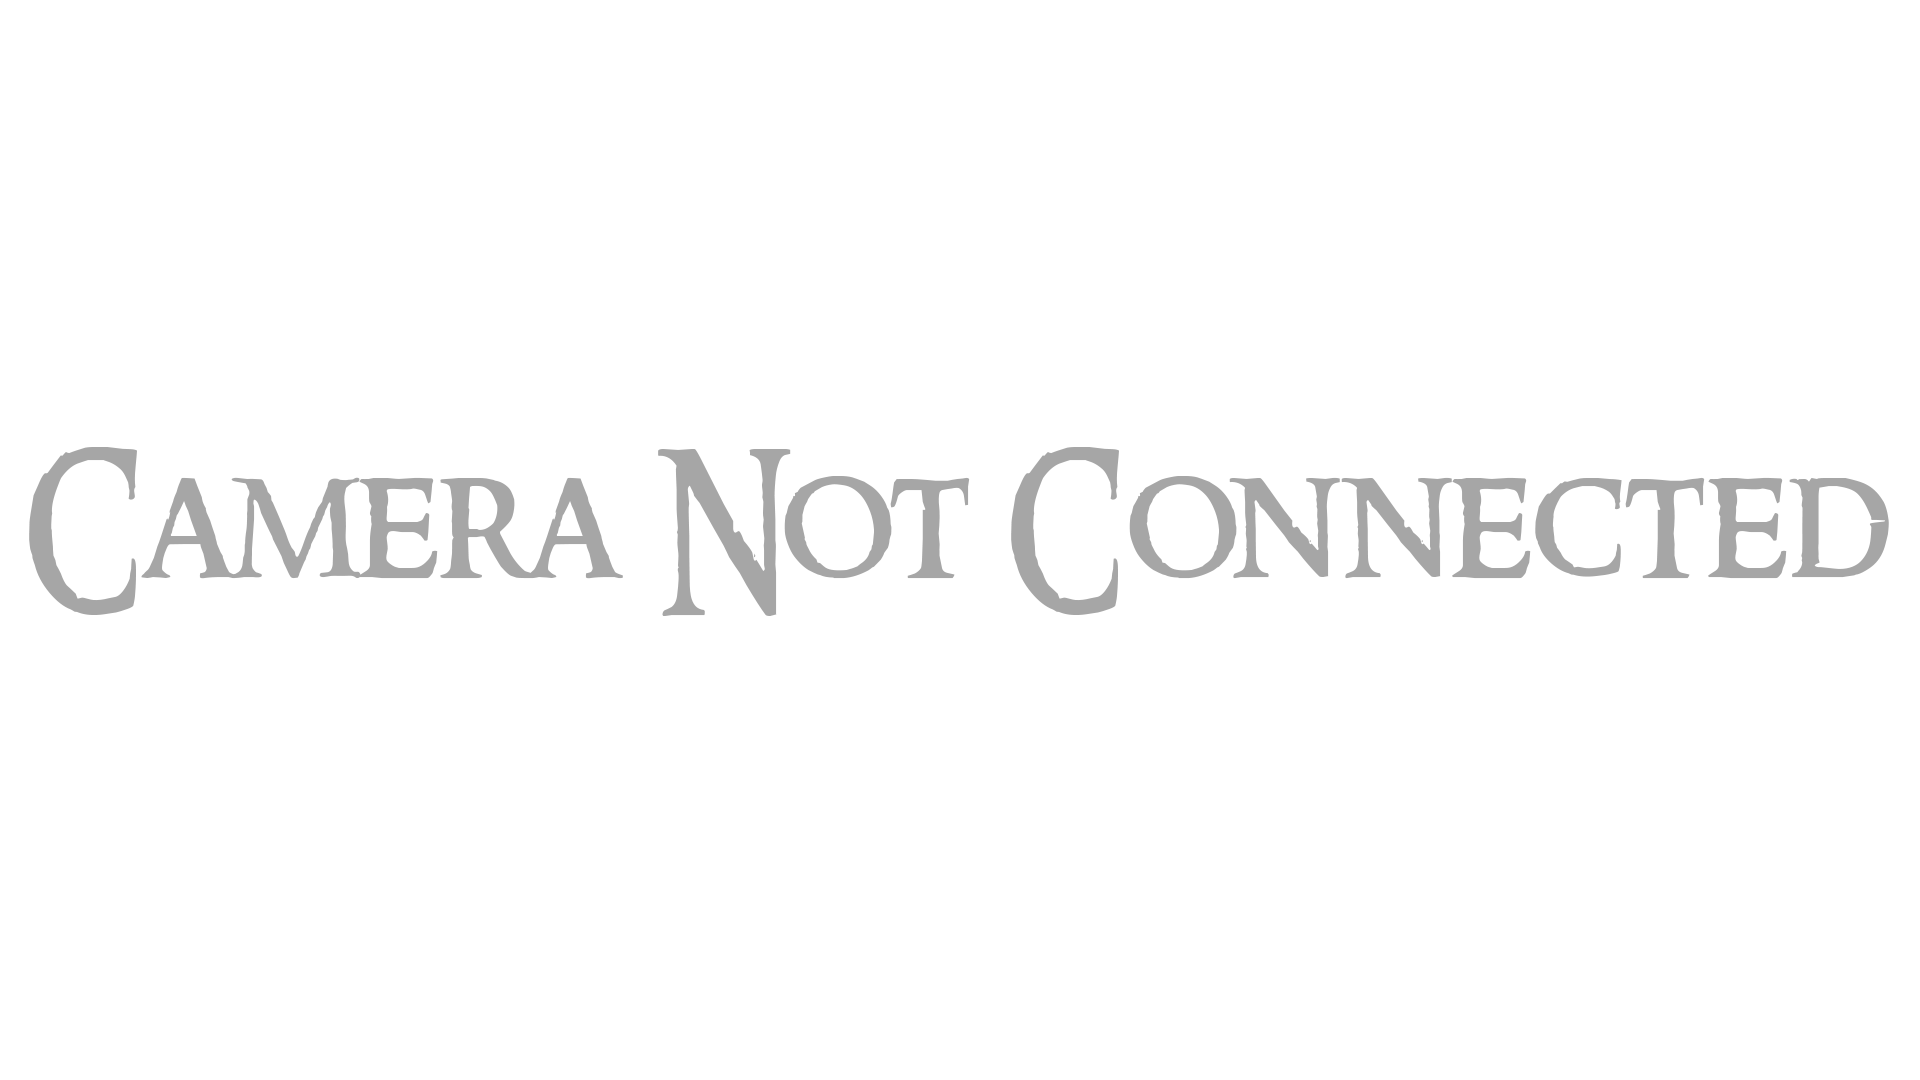
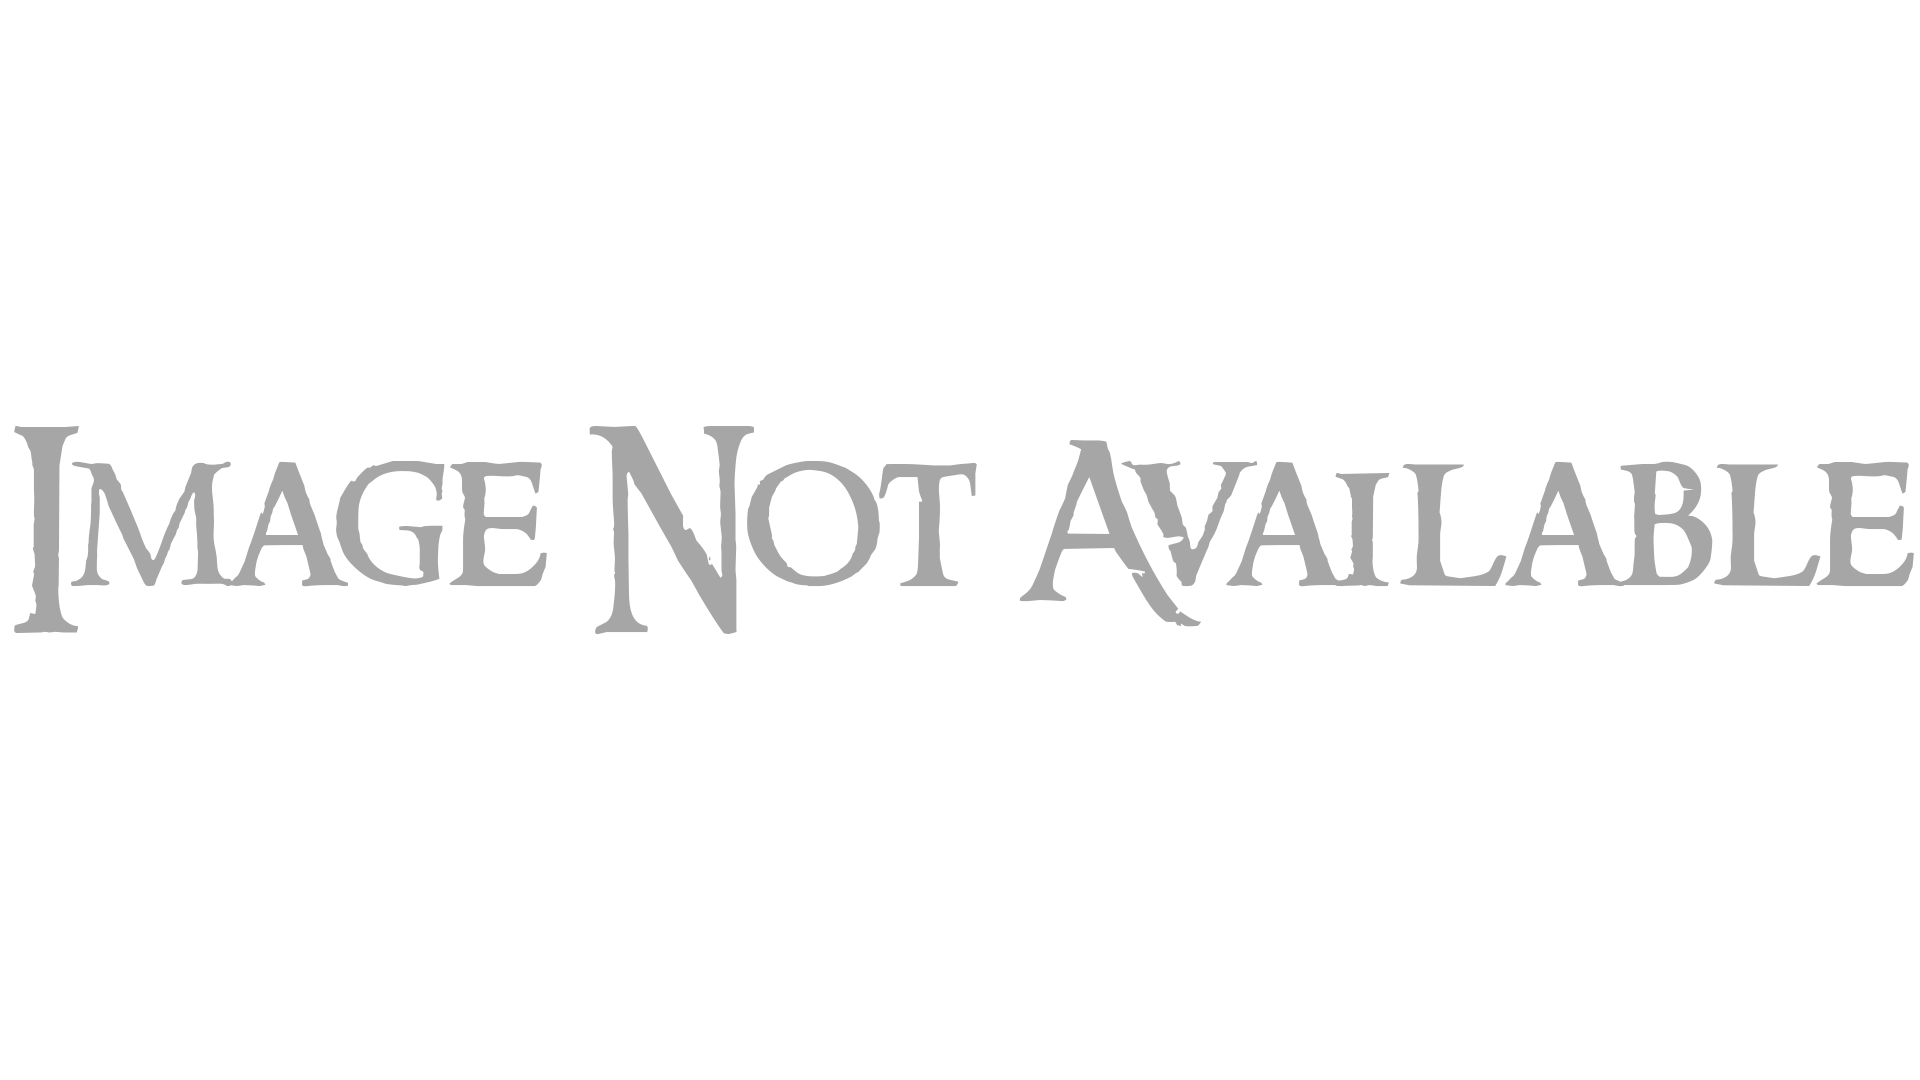
Showing both cameras (left and right)

Changed region(s): [[0.0, 0.3972, 1.0, 0.6111]]

diff --git a/src/gui/main_window.py b/src/gui/main_window.py
@@ -36,28 +36,50 @@ class MainWindow(QtWidgets.QMainWindow):
         self.verticalLayout = QtWidgets.QVBoxLayout(self.centralwidget)
         self.verticalLayout.setObjectName(u"verticalLayout")
 
-        self.frame = QtWidgets.QFrame(self.centralwidget)
-        self.frame.setObjectName(u"frame")
-        self.frame.setFrameShape(QtWidgets.QFrame.StyledPanel)
-        self.frame.setFrameShadow(QtWidgets.QFrame.Raised)
-        self.horizontalLayout_2 = QtWidgets.QHBoxLayout(self.frame)
-        self.horizontalLayout_2.setObjectName(u"horizontalLayout_2")
+        #LEFT CAM
+        self.frame_left = QtWidgets.QFrame(self.centralwidget)
+        self.frame_left.setObjectName(u"frame_left")
+        self.frame_left.setFrameShape(QtWidgets.QFrame.StyledPanel)
+        self.frame_left.setFrameShadow(QtWidgets.QFrame.Raised)
+        self.horizontalLayout_left = QtWidgets.QHBoxLayout(self.frame_left)
+        self.horizontalLayout_left.setObjectName(u"horizontalLayout_left")
 
-        self.basic_preview_label = QtWidgets.QLabel(self.frame)
-        self.basic_preview_label.setObjectName(u"basic_preview_label")
+        self.basic_preview_label_left = QtWidgets.QLabel(self.frame_left)
+        self.basic_preview_label_left.setObjectName(u"basic_preview_label_left")
 
-        self.horizontalLayout_2.addWidget(self.basic_preview_label)
+        self.horizontalLayout_left.addWidget(self.basic_preview_label_left)
 
-        self.viewer_3D = GLViewWidget()
-        self.horizontalLayout_2.addWidget(self.viewer_3D)
+        self.viewer_3D_left = GLViewWidget()
+        self.horizontalLayout_left.addWidget(self.viewer_3D_left)
 
-        self.augumented_preview_label = QtWidgets.QLabel(self.frame)
-        self.augumented_preview_label.setObjectName(u"augumented_preview_label")
+        self.augumented_preview_label_left = QtWidgets.QLabel(self.frame_left)
+        self.augumented_preview_label_left.setObjectName(u"augumented_preview_label_left")
 
-        self.horizontalLayout_2.addWidget(self.augumented_preview_label)
+        self.horizontalLayout_left.addWidget(self.augumented_preview_label_left)
+        self.verticalLayout.addWidget(self.frame_left)
 
+        #RIGHT CAM
+        self.frame_right = QtWidgets.QFrame(self.centralwidget)
+        self.frame_right.setObjectName(u"frame_right")
+        self.frame_right.setFrameShape(QtWidgets.QFrame.StyledPanel)
+        self.frame_right.setFrameShadow(QtWidgets.QFrame.Raised)
+        self.horizontalLayout_right = QtWidgets.QHBoxLayout(self.frame_right)
+        self.horizontalLayout_right.setObjectName(u"horizontalLayout_right")
 
-        self.verticalLayout.addWidget(self.frame)
+        self.basic_preview_label_right = QtWidgets.QLabel(self.frame_right)
+        self.basic_preview_label_right.setObjectName(u"basic_preview_label_right")
+
+        self.horizontalLayout_right.addWidget(self.basic_preview_label_right)
+
+        self.viewer_3D_right = GLViewWidget()
+        self.horizontalLayout_right.addWidget(self.viewer_3D_right)
+
+        self.augumented_preview_label_right = QtWidgets.QLabel(self.frame_right)
+        self.augumented_preview_label_right.setObjectName(u"augumented_preview_label_right")
+
+        self.horizontalLayout_right.addWidget(self.augumented_preview_label_right)
+        self.verticalLayout.addWidget(self.frame_right)
+        ###--------------------
 
         self.frame_2 = QtWidgets.QFrame(self.centralwidget)
         self.frame_2.setObjectName(u"frame_2")
@@ -134,8 +156,6 @@ class MainWindow(QtWidgets.QMainWindow):
 
     def retranslate_ui(self):
         self.setWindowTitle(QtCore.QCoreApplication.translate("MainWindow", u"MPC-ROZ Projekt", None))
-        self.basic_preview_label.setText(QtCore.QCoreApplication.translate("MainWindow", u"Preview basic", None))
-        self.augumented_preview_label.setText(QtCore.QCoreApplication.translate("MainWindow", u"Augumented view", None))
         self.load_btn.setText(QtCore.QCoreApplication.translate("MainWindow", u"Load Model", None))
         self.calibrate_btn.setText(QtCore.QCoreApplication.translate("MainWindow", u"Calibrate Camera", None))
         self.register_model_btn.setText(QtCore.QCoreApplication.translate("MainWindow", u"Register Model", None))
@@ -164,10 +184,13 @@ class MainWindow(QtWidgets.QMainWindow):
     def update_model_slot(self, mesh_data : MeshData):
         model_mesh = GLMeshItem(meshdata=mesh_data, smooth=True, drawFaces=False, drawEdges=True, edgeColor=(0, 1, 0, 1))
         
-        self.viewer_3D.clear()
-        self.viewer_3D.addItem(model_mesh)
+        self.viewer_3D_left.clear()
+        self.viewer_3D_left.addItem(model_mesh)
+        self.viewer_3D_left.show()
 
-        self.viewer_3D.show()
+        self.viewer_3D_right.clear()
+        self.viewer_3D_right.addItem(model_mesh)
+        self.viewer_3D_right.show()
 
     def init_backend(self):
         self.backend.camera_sel_cb_add_items_signal = self.camera_sel_cb_add_items_signal
@@ -179,26 +202,42 @@ class MainWindow(QtWidgets.QMainWindow):
         self.camera_select_cb.clear()
         self.camera_select_cb.addItems([str(item) for item in range(num_of_cameras)])
 
-    def camera_stream_update_slot(self, img1, img2):
-        image = cv2.cvtColor(img1, cv2.COLOR_BGR2RGB)
-        #flipped_image = cv2.flip(image, 1)
-        qt_img = QImage(image.data, image.shape[1], image.shape[0],
+    def camera_stream_update_slot(self, img_left, img_right):
+        image_left = cv2.cvtColor(img_left, cv2.COLOR_BGR2RGB)
+        
+        qt_img_left = QImage(image_left.data, image_left.shape[1], image_left.shape[0],
                                    QImage.Format_RGB888)
-        scaled_qt_img = qt_img.scaledToWidth(self.width()/3)
-        self.basic_preview_label.setPixmap(QPixmap.fromImage(scaled_qt_img))
+        scaled_qt_img_left = qt_img_left.scaledToWidth(self.width()/3)
+        self.basic_preview_label_left.setPixmap(QPixmap.fromImage(scaled_qt_img_left))
 
-    def detection_update_slot(self, img1, img2=None):
-        image = cv2.cvtColor(img1, cv2.COLOR_BGR2RGB)
-        #flipped_image = cv2.flip(image, 1)
-        qt_img = QImage(image.data, image.shape[1], image.shape[0],
+        #____RIGHT___#
+        image_right = cv2.cvtColor(img_right, cv2.COLOR_BGR2RGB)
+        
+        qt_img = QImage(image_right.data, image_right.shape[1], image_right.shape[0],
                                    QImage.Format_RGB888)
-        scaled_qt_img = qt_img.scaledToWidth(self.width()/3)
-        self.augumented_preview_label.setPixmap(QPixmap.fromImage(scaled_qt_img))
+        scaled_qt_img_right = qt_img.scaledToWidth(self.width()/3)
+        self.basic_preview_label_right.setPixmap(QPixmap.fromImage(scaled_qt_img_right))
+
+    def detection_update_slot(self, img_left, img_right=None):
+        image_left = cv2.cvtColor(img_left, cv2.COLOR_BGR2RGB)
+        qt_img_left = QImage(image_left.data, image_left.shape[1], image_left.shape[0],
+                                   QImage.Format_RGB888)
+        scaled_qt_img_left = qt_img_left.scaledToWidth(self.width()/3)
+        self.augumented_preview_label_left.setPixmap(QPixmap.fromImage(scaled_qt_img_left))
+
+        #____RIGHT___#
+        image_right = cv2.cvtColor(img_right, cv2.COLOR_BGR2RGB)
+        qt_img_right = QImage(image_right.data, image_right.shape[1], image_right.shape[0],
+                                   QImage.Format_RGB888)
+        scaled_qt_img_right = qt_img_right.scaledToWidth(self.width()/3)
+        self.augumented_preview_label_right.setPixmap(QPixmap.fromImage(scaled_qt_img_right))
 
     def closeEvent(self, event):
         self.backend.camera.stop()
 
     def camera_disconnected(self):
         scaled_qt_img = self.img_not_connected.scaledToWidth(self.width()/3)
-        self.basic_preview_label.setPixmap(QPixmap.fromImage(scaled_qt_img))
-        self.augumented_preview_label.setPixmap(QPixmap.fromImage(scaled_qt_img))
+        self.basic_preview_label_left.setPixmap(QPixmap.fromImage(scaled_qt_img))
+        self.augumented_preview_label_left.setPixmap(QPixmap.fromImage(scaled_qt_img))
+        self.basic_preview_label_right.setPixmap(QPixmap.fromImage(scaled_qt_img))
+        self.augumented_preview_label_right.setPixmap(QPixmap.fromImage(scaled_qt_img))
